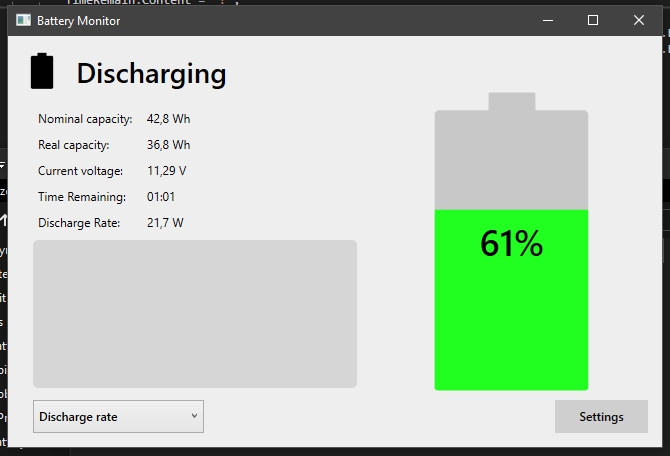
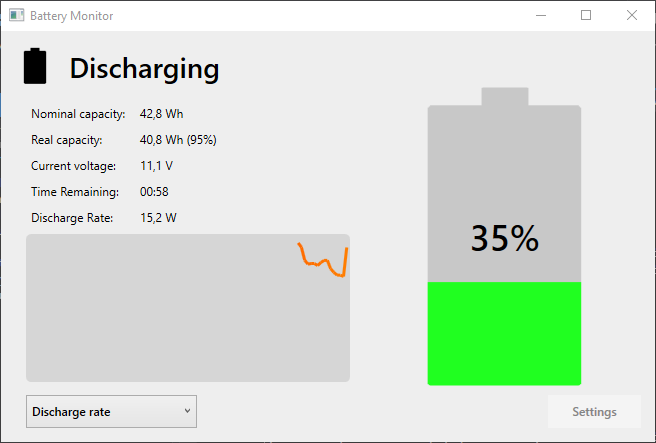
Added battery wear percentage to real capacity text

diff --git a/Power Monitor/MainWindow.xaml b/Power Monitor/MainWindow.xaml
@@ -33,7 +33,7 @@
         <Label Content="Real capacity:" HorizontalAlignment="Left" Margin="25,95,0,0" VerticalAlignment="Top"/>
         <Label Content="Current voltage:" HorizontalAlignment="Left" Margin="25,121,0,0" VerticalAlignment="Top"/>
         <Label Content="Time Remaining:" HorizontalAlignment="Left" Margin="25,147,0,0" VerticalAlignment="Top"/>
-        <Button x:Name="SettingsBtn" Content="Settings" HorizontalAlignment="Right" Margin="0,0,14,14" VerticalAlignment="Bottom" Width="93" Height="33" BorderBrush="{x:Null}" BorderThickness="0" Background="#FFCFCFCF" FontFamily="Segoe UI Semibold"/>
+        <Button x:Name="SettingsBtn" Content="Settings" HorizontalAlignment="Right" Margin="0,0,14,14" VerticalAlignment="Bottom" Width="93" Height="33" BorderBrush="{x:Null}" BorderThickness="0" Background="#FFCFCFCF" FontFamily="Segoe UI Semibold" IsEnabled="False"/>
         <Label x:Name="NomCap" Content="45 Wh" HorizontalAlignment="Left" Margin="134,69,0,0" VerticalAlignment="Top"/>
         <Label x:Name="RealCap" Content="37 Wh (87%)" HorizontalAlignment="Left" Margin="134,95,0,0" VerticalAlignment="Top"/>
         <Label x:Name="Voltage" Content="11,57 V" HorizontalAlignment="Left" Margin="134,121,0,0" VerticalAlignment="Top"/>

diff --git a/Power Monitor/MainWindow.xaml.cs b/Power Monitor/MainWindow.xaml.cs
@@ -92,7 +92,7 @@ namespace Power_Monitor
                     }
                     
                 }
-                RealCap.Content= (Math.Round(battery.RealCapacity * 10) / 10f) + " Wh";
+                RealCap.Content= (Math.Round(battery.RealCapacity * 10) / 10f) + $" Wh ({Math.Round((battery.RealCapacity/battery.NominalCapacity)*100)}%)";
                 NomCap.Content = (Math.Round(battery.NominalCapacity * 10) / 10f) + " Wh";
                 Voltage.Content = (Math.Round(battery.CurrentVoltage * 100) / 100f) + " V";
                 
